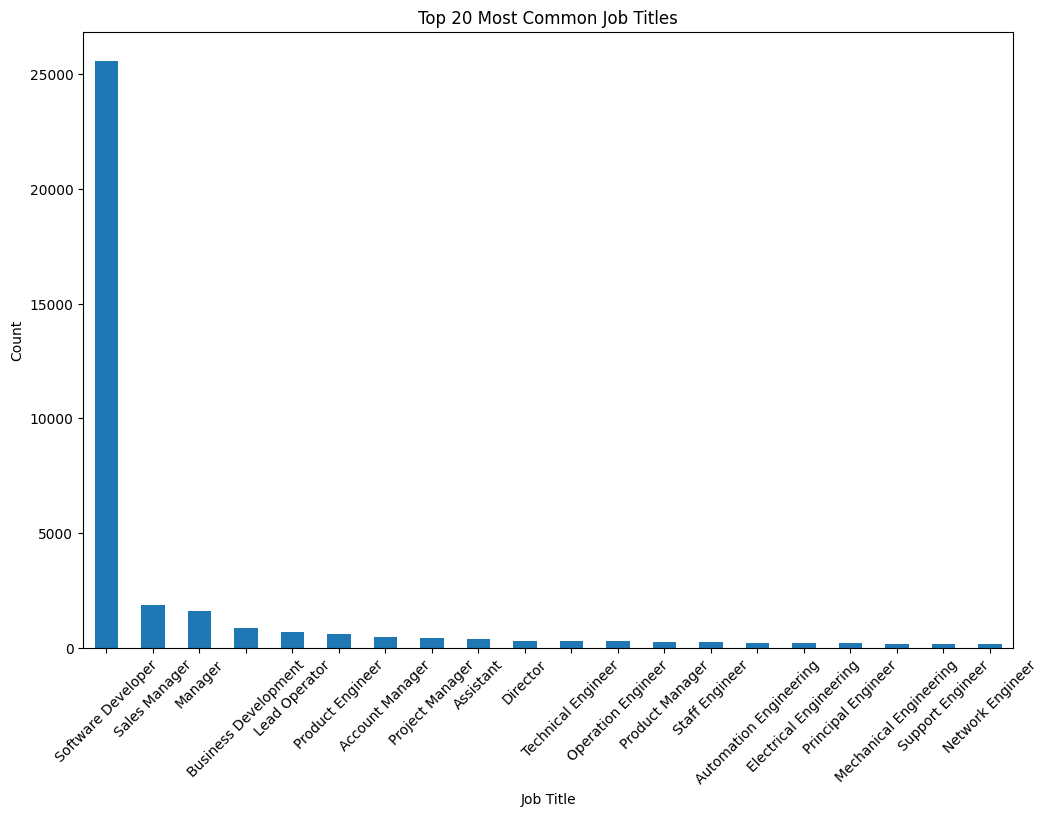
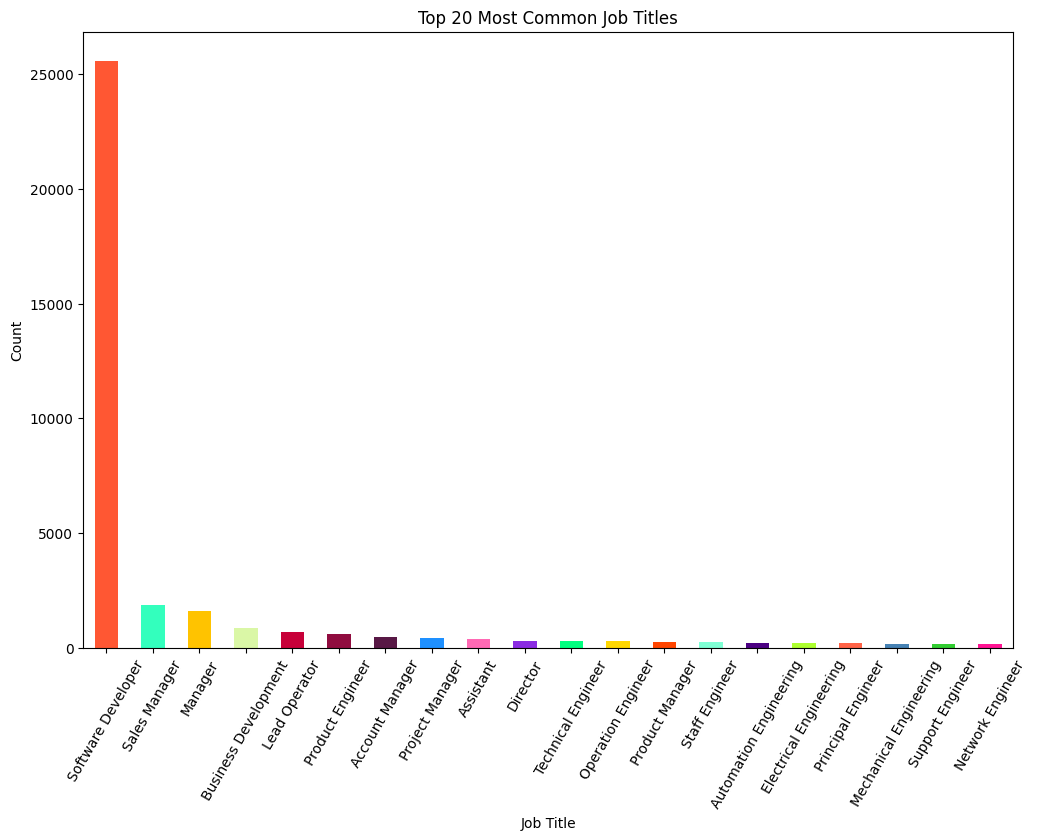
anylize the data with graph or pie chart

diff --git a/anylyse_data.py b/anylyse_data.py
@@ -1,9 +1,9 @@
 import pandas as pd
 import matplotlib.pyplot as plt
-import seaborn as sns
 import os
+from wordcloud import WordCloud
 
-df = pd.read_csv('new_csv_title.csv')
+df = pd.read_csv('new_all_cleaned.csv')
 
 print(df.info())
 
@@ -17,14 +17,38 @@ df['Company-Name'] = df['Company-Name'].str.upper()
 graph_dir = 'graphs'
 if not os.path.exists(graph_dir):
     os.makedirs(graph_dir)
+    
+
+color_list = [
+    '#FF5733',  # Red-Orange
+    '#33FFBD',  # Aqua
+    '#FFC300',  # Yellow
+    '#DAF7A6',  # Light Green
+    '#C70039',  # Crimson
+    '#900C3F',  # Dark Red
+    '#581845',  # Purple
+    '#1E90FF',  # Dodger Blue
+    '#FF69B4',  # Hot Pink
+    '#8A2BE2',  # Blue Violet
+    '#00FF7F',  # Spring Green
+    '#FFD700',  # Gold
+    '#FF4500',  # Orange Red
+    '#7FFFD4',  # Aquamarine
+    '#4B0082',  # Indigo
+    '#ADFF2F',  # Green Yellow
+    '#FF6347',  # Tomato
+    '#4682B4',  # Steel Blue
+    '#32CD32',  # Lime Green
+    '#FF1493'   # Deep Pink
+]
 
 plt.figure(figsize=(12, 8))
-df['Title'].value_counts().head(20).plot(kind='bar')
+df['Title'].value_counts().head(20).plot(kind='bar',color=color_list )
 plt.title("Top 20 Most Common Job Titles")
 plt.xlabel("Job Title")
 plt.ylabel("Count")
-plt.xticks(rotation=45)
-plt.savefig(os.path.join(graph_dir, 'top_20_job_titles.png'), bbox_inches='tight')  # Save the graph
+plt.xticks(rotation=60)
+plt.savefig(os.path.join(graph_dir, 'top_20_job_titles.png'), bbox_inches='tight')  
 plt.close()  
 
 plt.figure(figsize=(12, 8))
@@ -38,13 +62,15 @@ plt.close()
 
 df['skills_split'] = df['skills'].str.split(',')
 skills_df = df.explode('skills_split')
+skills_df['skills_split'] = skills_df['skills_split'].str.lower().str.strip()
 
 plt.figure(figsize=(12, 8))
-skills_df['skills_split'].value_counts().head(10).plot(kind='bar')
+skills_df['skills_split'].value_counts().head(10).plot(kind='pie')
 plt.title("Top 10 Skills in Job Listings")
 plt.xlabel("Skills")
-plt.ylabel("Frequency")
+# plt.ylabel("Frequency")
 plt.xticks(rotation=45)
+
 plt.savefig(os.path.join(graph_dir, 'top_10_skills.png'), bbox_inches='tight')
 plt.close()
 
@@ -52,6 +78,32 @@ plt.close()
 pivot_table = pd.pivot_table(df, index='Title', columns='Company-Name', aggfunc='size', fill_value=0)
 print("\nPivot Table (Job Title and Company-Name):")
 print(pivot_table)
+
+software_dev_jobs = df[df['Title'].str.contains('Software Developer', case=False, na=False)]
+
+all_skills = software_dev_jobs['skills'].str.split(',').explode().str.strip().str.lower()
+
+skill_counts = all_skills.value_counts()
+
+plt.figure(figsize=(10,6))
+skill_counts.head(10).plot(kind='barh', color='skyblue')
+plt.title('Top 10 Skills for Software Developers',fontsize=16)
+plt.xlabel('Number of Job Postings', fontsize=12)
+plt.ylabel('Skills',fontsize=12)
+plt.xticks(fontsize=10)
+plt.yticks(fontsize=10)
+plt.savefig( os.path.join( graph_dir, 'software_dev_skills.png'), bbox_inches='tight')
+
+
+wordcloud = WordCloud(width=800, height=400, background_color='white').generate_from_frequencies(skill_counts)
+plt.figure(figsize=(10, 6))
+plt.imshow(wordcloud, interpolation='bilinear')
+plt.axis('off')  
+plt.title('Skills Word Cloud for Software Developers')
+plt.savefig( os.path.join( graph_dir, 'cloud_skills.png'), bbox_inches='tight')
+
+plt.show()
+
 
 df.to_csv("analyzed_data.csv", index=False)
 
